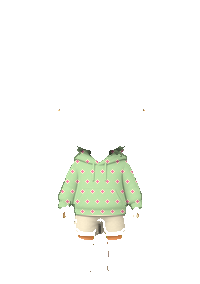
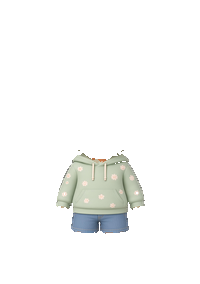
Batch 7: re-add spring outfit (new rose dress / mint hoodie+denim shorts)

Changed region(s): [[0.27, 0.507, 0.72, 0.8451], [0.54, 0.8732, 0.57, 0.9014]]

diff --git a/js/avatar.js b/js/avatar.js
@@ -191,7 +191,7 @@ export function frame(ch, key) { if (!ch.av) return null; if (key && key.startsW
 
 // ---------------- v17 LAYERED test set (2D): one still 200x284 PNG per direction per layer (base · outfit+tint mask · hair), foot pivot (100,272).
 // Only the shipped hairs/outfits are offered; any other code maps to the nearest shipped item (old codes keep working).
-const NEW_O = ['hanbok', 'formal', 'winter', 'summer']; // v20: hanbok+formal+winter+summer regenerated, 5-dir per-cell + 3x checks passed 2026-10-31; spring/autumn still pulled
+const NEW_O = ['hanbok', 'formal', 'winter', 'summer', 'spring']; // v21: hanbok+formal+winter+summer+spring regenerated, 5-dir per-cell + 3x checks passed 2026-10-31; autumn still pulled
 export const SHIP = { f: { hairs: [0, 4, 5, 6], outfits: ['basic', 'choir', 'mint', 'sky', 'lav', 'peach', ...NEW_O] }, m: { hairs: [0, 1, 2, 3, 4, 5, 6], outfits: ['basic', 'mint', 'sky', 'lav', 'peach', 'navy', 'choir', ...NEW_O] } };
 const NEAR_H = { f: [0, 6, 4, 4, 4, 5, 6, 4], m: [0, 1, 2, 3, 4, 5, 6] }; // index in HAIRS[g] → shipped index
 export const LAYER_PIVOT = [100, 272];

diff --git a/MORNING_REPORT.md b/MORNING_REPORT.md
@@ -143,3 +143,9 @@ Tests: beta_suite 160/160 local; test_walk_scale PASS; test_presence 6/6 PASS on
 - Summer (bare arms and legs): a new bare-limb cleanup drops generated skin and socks so the base limbs show, fills undershirt gaps, and clips the boy's outfit to his silhouette. Girl NW uses the N view. Boy NW also uses the N view, because the generated NW stride didn't match the base.
 - Server gacha_pool is now 16 active / weight 274, which matches the config. Beta suite 160/160.
 - Still pulled: spring and autumn.
+
+## Batch 7: spring re-added (00:5x KST, Oct 31)
+- **Spring (o_spring '봄 옷 (옷)', w14)** is back in the pool, with a new design. The girl wears a rose-pink dress with white flowers. The boy wears a mint floral hoodie with light-blue denim shorts. The old long jeans failed because the walking poses didn't line up.
+- Checks: all 5 directions passed per-cell and 3x by eye, and the in-game stills are clean. Fixes made: the base's white shorts peeked out on the boy SW/W (filled with denim colour), and dark collar specks were removed on S/SW. Minor issue left: the boy's SW shorts hem is slightly ragged.
+- Server pool is now 17 active / weight 288 (migration 20261031_13). beta_suite 160/160.
+- Still pulled: autumn. Not deleted: the stray Vercel project 'exp' (it needs your approval).
